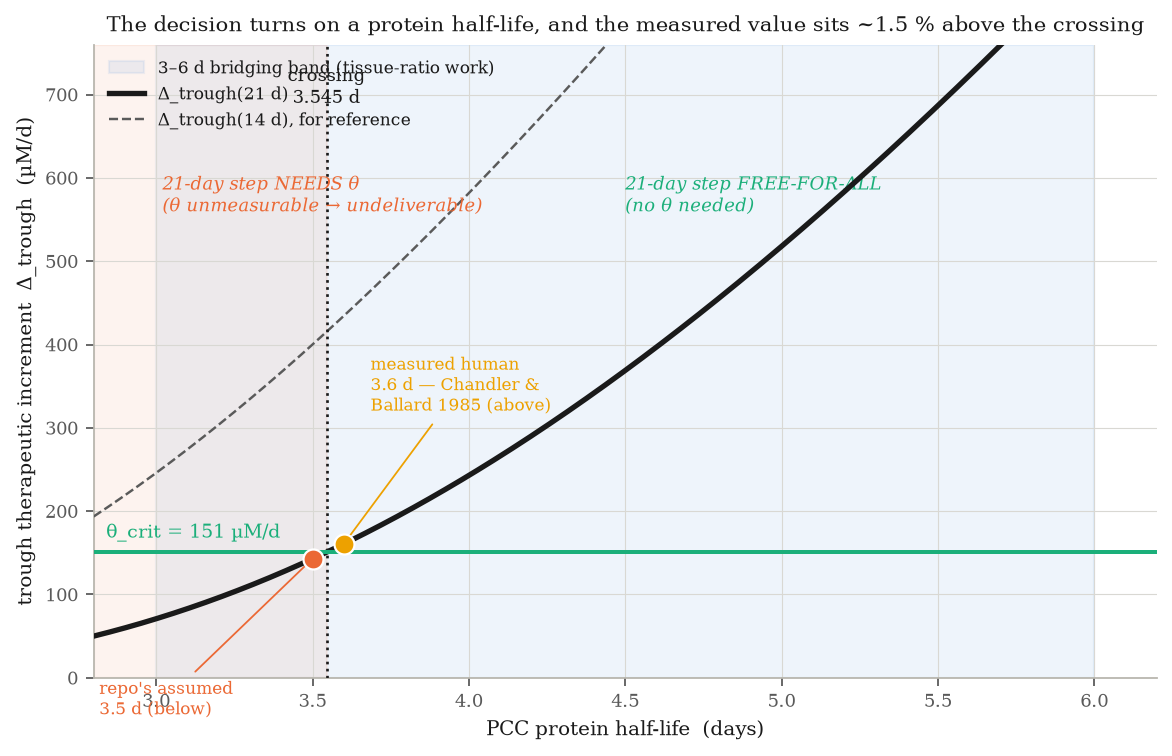
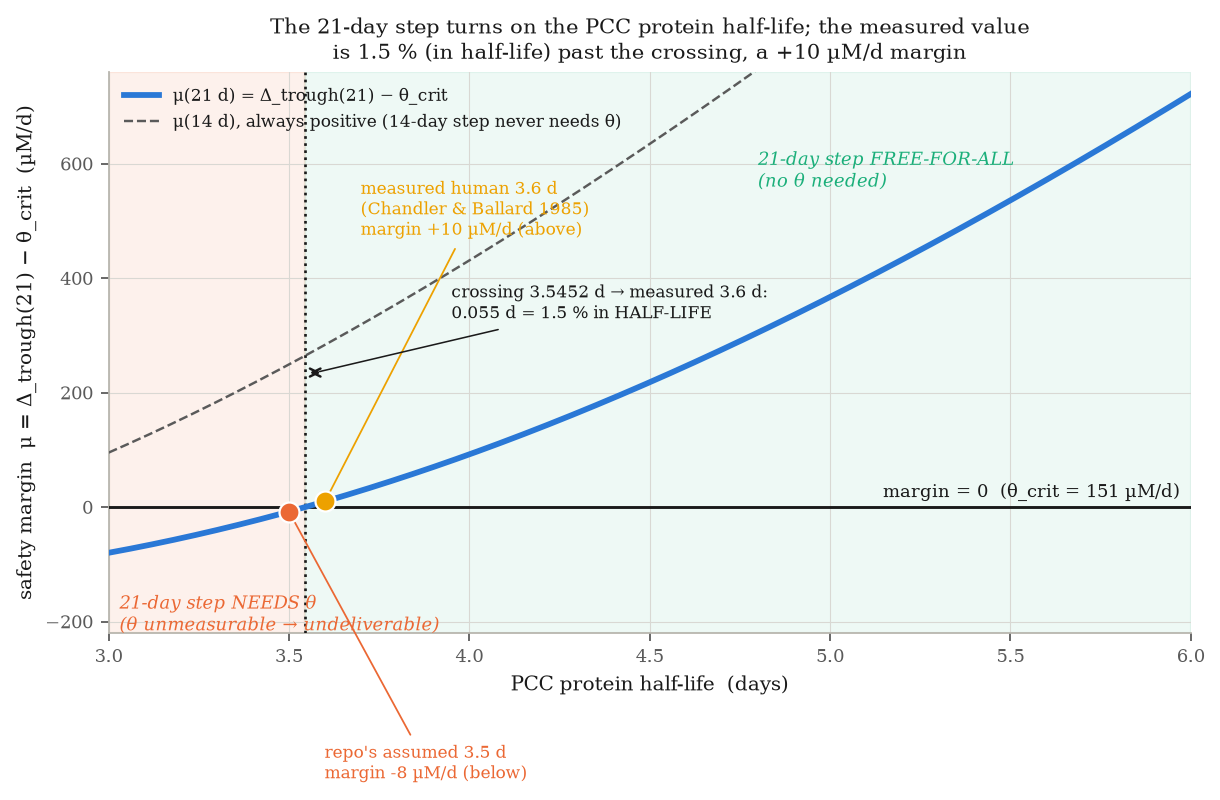
round 18 figures: three labelling/layout fixes
1. knife-edge now plots the safety MARGIN mu = Delta_trough(21) - theta_crit,
   crossing zero at 3.5452 d. A zero crossing reads cleaner than a line
   intersection, and it keeps the y-axis a real quantity so the figure's only
   percentage (1.5%) is unambiguously an x-axis HALF-LIFE gap -- now in the
   title and annotated on the x-axis (crossing 3.5452 -> measured 3.6 d,
   0.055 d). Points labelled with their margins (-8 / +10 uM/d).
2. dropped the slope-identity inset (it overlapped panel A); the identity
   -1/(K_m+m) is now one sentence in the caption. A single algebraic fact does
   not earn its own panel.
3. pencil colourbar kept in its own gridspec column, clear of panel B.

Also added the figure-placement rationale to REPORT: the knife-edge leads
because its x-axis is the only quantity in the report that exists and has been
measured, while the pencil's axes are what the report concludes you cannot and
need not measure.

Claude-Session: https://claude.ai/code/session_01G79QbsErESgg1CQtzvtK3x

diff --git a/audit/brief_2026-10-01/r18_figs.py b/audit/brief_2026-10-01/r18_figs.py
@@ -80,22 +80,6 @@ def fig_pencil():
     sm = ScalarMappable(norm=MNORM, cmap=CMAP); sm.set_array([])
     cb = fig.colorbar(sm, cax=cax)
     cb.set_label("marker level  m_i  (µM)", fontsize=8.5)
-
-    # inset: the slope identity -1/(K_m+m), dosed band marked (bottom-left of A)
-    axi = ax[0].inset_axes([0.10, 0.10, 0.40, 0.30])
-    axi.set_facecolor("white")
-    mm = np.linspace(1, 600, 400)
-    axi.plot(mm, -1.0 / (T.KM + mm), color=P.INK, lw=1.6)
-    axi.axvspan(Pn["m_obs"].min(), Pn["m_obs"].max(), color=P.C1, alpha=0.22)
-    axi.axhline(-1.0 / T.KM, color=P.MUTED, ls=":", lw=0.8)
-    axi.text(0.04, 0.90, "slope −1/(K_m+m)", transform=axi.transAxes,
-             fontsize=7.2, va="top")
-    axi.text(Pn["m_obs"].max() + 20, -1 / T.KM + 0.0013, "dosed band:\nslope ≈ −1/100",
-             fontsize=6.4, color=P.C1, va="center")
-    axi.set_xlabel("m  (µM)", fontsize=7, labelpad=1); axi.tick_params(labelsize=6.5)
-    axi.set_ylim(-0.011, 0); axi.set_xlim(0, 600)
-    for s in ("top", "right"):
-        axi.spines[s].set_visible(False)
     fig.savefig(P.FIG / "r18_pencil.png", dpi=160, bbox_inches="tight")
     plt.close(fig)
     print("  wrote fig/r18_pencil.png")
@@ -140,43 +124,46 @@ def _trough(tau, thalf):
 
 
 def fig_knife():
-    fig, ax = plt.subplots(figsize=(7.4, 4.8))
-    th = np.linspace(2.8, 6.2, 400)
-    # 3-6 d bridging band
-    ax.axvspan(3.0, 6.0, color=P.C1, alpha=0.08, zorder=0,
-               label="3–6 d bridging band (tissue-ratio work)")
-    # regime shading split at the crossing
-    ax.axvspan(2.8, CROSS, color=P.C2, alpha=0.08, zorder=0)
-    # the trough curve for the 21-day step
-    ax.plot(th, _trough(21, th), color=P.INK, lw=2.4, zorder=4,
-            label="Δ_trough(21 d)")
-    # faint reference: the 14-day step is always far above theta_crit
-    ax.plot(th, _trough(14, th), color=P.MUTED, lw=1.1, ls="--", zorder=3,
-            label="Δ_trough(14 d), for reference")
-    # theta_crit horizontal
-    ax.axhline(THC, color=P.C3, lw=1.8, zorder=4)
-    ax.text(2.84, THC + 12, f"θ_crit = {THC:.0f} µM/d", color=P.C3, fontsize=8.5, va="bottom")
-    # crossing
+    # The decision as a MARGIN that crosses zero: mu(tau) = Delta_trough(tau) - theta_crit.
+    # A zero crossing reads more cleanly than a line intersection, and it keeps the
+    # y-axis a real quantity (safety margin, flux units) so the only percentage on the
+    # figure -- the 1.5% -- is unambiguously a HALF-LIFE (x-axis) difference.
+    fig, ax = plt.subplots(figsize=(7.7, 5.0))
+    th = np.linspace(3.0, 6.0, 400)
+    ax.axvspan(3.0, CROSS, color=P.C2, alpha=0.09, zorder=0)
+    ax.axvspan(CROSS, 6.0, color=P.C3, alpha=0.07, zorder=0)
+    ax.axhline(0.0, color=P.INK, lw=1.3, zorder=3)
+    ax.text(5.97, 10, "margin = 0  (θ_crit = 151 µM/d)", color=P.INK, fontsize=8,
+            ha="right", va="bottom")
+    ax.plot(th, _trough(21, th) - THC, color=P.C1, lw=2.6, zorder=4,
+            label="μ(21 d) = Δ_trough(21) − θ_crit")
+    ax.plot(th, _trough(14, th) - THC, color=P.MUTED, lw=1.1, ls="--", zorder=3,
+            label="μ(14 d), always positive (14-day step never needs θ)")
     ax.axvline(CROSS, color=P.INK, ls=":", lw=1.2, zorder=3)
-    ax.text(CROSS, 690, f"crossing\n{CROSS:.3f} d", ha="center", fontsize=8, color=P.INK)
-    # the two anchors on the curve
-    for x0, lab, col, dy in [(3.5, "repo's assumed\n3.5 d (below)", P.C2, -70),
-                             (3.6, "measured human\n3.6 d — Chandler &\nBallard 1985 (above)", P.C4, 60)]:
-        y0 = _trough(21, x0)
+    for x0, lab, col, dy in [
+            (3.5, f"repo's assumed 3.5 d\nmargin {_trough(21,3.5)-THC:+.0f} µM/d (below)", P.C2, -120),
+            (3.6, f"measured human 3.6 d\n(Chandler & Ballard 1985)\nmargin {_trough(21,3.6)-THC:+.0f} µM/d (above)", P.C4, 120)]:
+        y0 = _trough(21, x0) - THC
         ax.plot(x0, y0, "o", color=col, ms=9, zorder=6,
                 markeredgecolor="white", markeredgewidth=1.0)
         ax.annotate(lab, (x0, y0), textcoords="offset points",
-                    xytext=(-96 if x0 < CROSS else 12, dy), fontsize=7.6, color=col,
+                    xytext=(16, dy), fontsize=7.6, color=col,
                     arrowprops=dict(arrowstyle="-", color=col, lw=0.8))
-    # regime labels
-    ax.text(3.02, 560, "21-day step NEEDS θ\n(θ unmeasurable → undeliverable)",
-            fontsize=8, color=P.C2, style="italic")
-    ax.text(4.5, 560, "21-day step FREE-FOR-ALL\n(no θ needed)",
+    # annotate the x-gap explicitly (crossing -> measured), the source of the 1.5%
+    ax.annotate("", xy=(3.6, 235), xytext=(CROSS, 235),
+                arrowprops=dict(arrowstyle="<->", color=P.INK, lw=1.1))
+    ax.annotate("crossing 3.5452 d → measured 3.6 d:\n0.055 d = 1.5 % in HALF-LIFE",
+                xy=(3.573, 235), xytext=(3.95, 330), fontsize=7.8, color=P.INK,
+                arrowprops=dict(arrowstyle="-", color=P.INK, lw=0.7))
+    ax.text(3.03, -150, "21-day step NEEDS θ\n(θ unmeasurable → undeliverable)",
+            fontsize=8, color=P.C2, style="italic", va="top")
+    ax.text(4.8, 560, "21-day step FREE-FOR-ALL\n(no θ needed)",
             fontsize=8, color=P.C3, style="italic")
-    ax.set_xlim(2.8, 6.2); ax.set_ylim(0, 760)
+    ax.set_xlim(3.0, 6.0); ax.set_ylim(-220, 760)
     ax.set_xlabel("PCC protein half-life  (days)")
-    ax.set_ylabel("trough therapeutic increment  Δ_trough  (µM/d)")
-    ax.set_title("The decision turns on a protein half-life, and the measured value sits ~1.5 % above the crossing",
+    ax.set_ylabel("safety margin  μ = Δ_trough(21) − θ_crit  (µM/d)")
+    ax.set_title("The 21-day step turns on the PCC protein half-life; the measured value\n"
+                 "is 1.5 % (in half-life) past the crossing, a +10 µM/d margin",
                  fontsize=9.5)
     ax.legend(loc="upper left", fontsize=7.8, framealpha=0.92)
     P.finish(ax)

diff --git a/audit/brief_2026-10-01/REPORT.md b/audit/brief_2026-10-01/REPORT.md
@@ -65,9 +65,11 @@ All of the above prices how well θ can be *measured*. The clinical act the ther
 
 This inequality is the whole decision, and it is worth seeing before the measurement questions that price it. The binding case is the longest interval anyone would book — the **21-day step** — against the parent paper's intrinsic critical capacity (θ_crit^int = 151 µM/d). The trough increment depends on one quantity, the **PCC protein half-life**, and the decision is a single crossing in it:
 
-![the 21-day dosing step turns on the PCC protein half-life, and the measured value sits ~1.5% above the crossing](fig/r18_knife.png)
+![the 21-day dosing step as a safety margin crossing zero at the PCC protein half-life](fig/r18_knife.png)
 
-Everything to the **right** of the 3.5452 d crossing books the 21-day interval with **no knowledge of capacity** — the drug trough alone clears θ_crit for any residual θ ≥ 0. Everything to the **left** needs θ, which is unmeasurable (the rest of this section). The repo's assumed 3.5 d sits just inside the needs-θ side; the one measured human value — **3.6 d** (Chandler & Ballard 1985) — sits **~1.5 % to the free side**; and the compartment-anchored estimate (~4.3 d, R-P) with its 3–6 d bridging band straddle the line. That is the whole project in one image: **the decision does not need capacity — it needs this half-life, and the measured value sits about 1.5 % from the threshold that flips it.** Everything else in the report is how that figure was earned — the measurement questions above (why capacity itself is out of reach) and the interval arc that follows (R-J → R-P), which reduces the booking to λ and then measures it.
+The y-axis is the **safety margin** μ = Δ_trough(21) − θ_crit, so the decision is a single **zero crossing**: μ > 0 (**right** of 3.5452 d) books the 21-day interval with **no knowledge of capacity** — the drug trough alone clears θ_crit for any residual θ ≥ 0 — and μ < 0 (**left**) needs θ, which is unmeasurable (the rest of this section). The repo's assumed 3.5 d sits just below zero (margin −8 µM/d); the one measured human value — **3.6 d** (Chandler & Ballard 1985) — sits just above (margin +10 µM/d). The two differ by **0.055 d — 1.5 % in half-life** (the only percentage on the figure is an x-axis, half-life difference, not the vertical margin gap). The compartment-anchored estimate (~4.3 d, R-P) with its 3–6 d bridging band straddles the crossing. That is the whole project in one image: **the decision does not need capacity — it needs this half-life, and the measured value sits ~1.5 % (in half-life) past the threshold that flips it.** Everything else in the report is how that figure was earned — the measurement questions above (why capacity itself is out of reach) and the interval arc that follows (R-J → R-P), which reduces the booking to λ and then measures it.
+
+*Why this figure leads, and not the identifiability pencil of R-Q: the knife-edge's x-axis is the only quantity in this report that exists and has been measured, while the pencil's axes (θ, k_e) are exactly what the report concludes you cannot and need not measure.*
 
 **Two questions, and the per-patient one is operative.** The intervals *are* far apart in capacity: at the repo's constants Δ_trough(14) = **400 µM/d** (the formula reproduces the repository's own dose train and its reported trough fraction 0.134·θ exactly), and adjacent grid choices differ by **287 µM/d (14 vs 10) and 600 (14 vs 7)** at the same delivered rate — so the *grid-resolution* tolerance is loose, sd(ln θ) ≈ 10–20 under the routine-load reading, which the record (3.05) clears. **But that is a fact about the grid, not about a patient.** For a per-patient booking the operative number is whether that individual's choice is pinned, and **a PA population straddles the single safety boundary θ_crit − Δ_trough(14).** Simulated over the whole posterior (the 3.05 already bundles the K_m fibre, the k_e prior, the load bias and the assay — so this *is* "doing it properly, not just on the fibre"): at the record precision per-patient classification is **61 % correct, 0 % unambiguous** (no patient is far enough from the boundary that no measurement could change the booking — barely above the ~52 % base rate), and only at the managed 0.29 does it reach **93 % correct with a 72 % determined subgroup.** So for an individual the interval choice is **not** settled at the record precision; the "no new measurement" reading is true of the grid spacing, not of the booking.
 
@@ -1092,7 +1094,7 @@ Noise-free and at the true K_m, every line passes through the true (θ, k_e): th
 
 ![round 18 pencil: each steady-state draw is a bearing to the unknown (θ, k_e)](fig/r18_pencil.png)
 
-Read it as **triangulation**: each draw is a bearing to an unknown position. Bearings taken from widely separated points cross sharply and give a tight fix; bearings all taken from nearly the same direction are near-parallel, so the position smears along the line of sight. *Panel A* is the actual dosed record — twenty-five bearings all from nearly one direction, because over the dosed band (m ≈ [4, 38] against K_m = 100) the inset identity forces every slope to ≈ −1/100; the 2σ region is a long sliver along the fibre, sd(ln θ) = 2.7, the identifiability failure as a picture. *Panel B* is a **second bearing from a different angle** — a wide excursion (the steady-state reading of the Task-7 drug-forcing design, loads swept 0.45–3.2×): the marker ranges widely, the slopes fan apart (the lines are coloured by m_i, so the high-marker draws that carry the different slopes are visible), and the pencil concurs — sd(ln θ) falls to **0.40**, a 7-fold tightening. The analogy carries the safety point without extra words: *the place you would need to stand to get the good angle is the place the patient is not allowed to go* (the excursion is past the crisis threshold, R15). Axes are shared and the positive quadrant only: the sliver continues off-panel into k_e < 0, which is not a parameter set — at the paper's σ_m/Δ = 20 %, 96 % of unconstrained fits land there (Remark `rem:eiv`; at this figure's 5 % assay, 26 %), and that inadmissibility is checkable from the fit alone.
+Read it as **triangulation**: each draw is a bearing to an unknown position. Bearings taken from widely separated points cross sharply and give a tight fix; bearings all taken from nearly the same direction are near-parallel, so the position smears along the line of sight. *Panel A* is the actual dosed record — twenty-five bearings all from nearly one direction, because over the dosed band (m ≈ [4, 38] against K_m = 100) every slope is forced to ≈ −1/100 (the identity below); the 2σ region is a long sliver along the fibre, sd(ln θ) = 2.7, the identifiability failure as a picture. *Panel B* is a **second bearing from a different angle** — a wide excursion (the steady-state reading of the Task-7 drug-forcing design, loads swept 0.45–3.2×): the marker ranges widely, the slopes fan apart (the lines are coloured by m_i, so the high-marker draws that carry the different slopes are visible), and the pencil concurs — sd(ln θ) falls to **0.40**, a 7-fold tightening. The analogy carries the safety point without extra words: *the place you would need to stand to get the good angle is the place the patient is not allowed to go* (the excursion is past the crisis threshold, R15). Axes are shared and the positive quadrant only: the sliver continues off-panel into k_e < 0, which is not a parameter set — at the paper's σ_m/Δ = 20 %, 96 % of unconstrained fits land there (Remark `rem:eiv`; at this figure's 5 % assay, 26 %), and that inadmissibility is checkable from the fit alone.
 
 The slope identity is the mechanism behind three of the report's results at once: every line has slope −1/(K_m + m_i), so the narrow band pins every slope near −1/100 — which is the −0.99 θ–k_e correlation, Proposition 1's affine degeneracy, and the fact that **band width is the only lever**.
 

diff --git a/audit/brief_2026-10-01/README.md b/audit/brief_2026-10-01/README.md
@@ -64,7 +64,7 @@ It builds on the repository rather than beside it. The footing (convention A, th
 | `t49_hepatic_bridge.py` | round 16: can human hepatic PCC turnover be bridged from the fibroblast value via the mouse tissue ratio? No clean paired dataset exists; the three defensible ratio readings disagree on direction, so P(hepatic < 3.5452 d crossing) spans ~24–65 %, centred ~50 % — the bridge cannot settle the side, so the trial record is the only route | 1 min |
 | `t50_hepatic_mito.py` | round 17: the hepatic correction runs the OTHER way — PCC is mitochondrial-matrix, so the liver-mito median (4.26 d) is the comparator, not whole-liver; central estimate ~4.3 d, ABOVE the crossing. P(hepatic < crossing) ~30 % (not ~50 %), so the 21-day step is ~65–70 % free-for-all, though the band straddles. Also records that the human λ (Gao model) is not public — the on-therapy record is the only accessible route | 1 min |
 | `t51_pencil_geometry.py` | round 18: the PI's line-pencil geometry (each steady-state draw is a line g(m)θ+m·k_e=L in the (θ,k_e) plane) and what it adds — the near-concurrence region IS the fixed-K_m FIM ellipse, the −0.99 IS near-parallelism, Prop 1's affine degeneracy IS the narrow-band slope collapse, the K_m family IS Remark 2's fibre; plus (2) a model-free uncertainty from pairwise-intersection scatter (heavy-tailed, a third route to the round-13/14 tail), (3) a concurrency χ² adequacy test (calibrated, power vs a biased load, blind to a second channel), (4) Remark 6's TLS weighting reproduces the FIM/MLE | 1 min |
-| `r18_figs.py` | round 18 figures: (1) the pencil in (θ,k_e) — narrow (near-parallel smear) vs wide excursion (concurs), on shared axes, lines coloured by m_i, with the slope-identity inset; (2) the K_m fibre; (3) the knife-edge — Δ_trough(21) vs PCC protein half-life, θ_crit line, 3.5452 d crossing, assumed 3.5 d / measured 3.6 d / 3–6 d band (the report's lead figure) | 1 min |
+| `r18_figs.py` | round 18 figures: (1) the pencil in (θ,k_e) — narrow (near-parallel smear) vs wide excursion (concurs), on shared axes, lines coloured by m_i, with the slope-identity inset; (2) the K_m fibre; (3) the knife-edge — safety margin μ=Δ_trough(21)−θ_crit vs PCC protein half-life, crossing zero at 3.5452 d, assumed 3.5 d (−8 µM/d) / measured 3.6 d (+10 µM/d) / 3–6 d band; 1.5 % is a half-life gap (the report's lead figure) | 1 min |
 | `r3_figs.py` | round 3 figures (flux contour, k_e×sampling, asymptote, excursion/safety) | 2 min |
 | `*_recheck3.py` | independent verifier re-derivations of the round-3 scripts | — |
 | `*_recheck.py` | an independent verifier's re-derivation of each follow-up script, sharing no code with it | 3–25 min |
